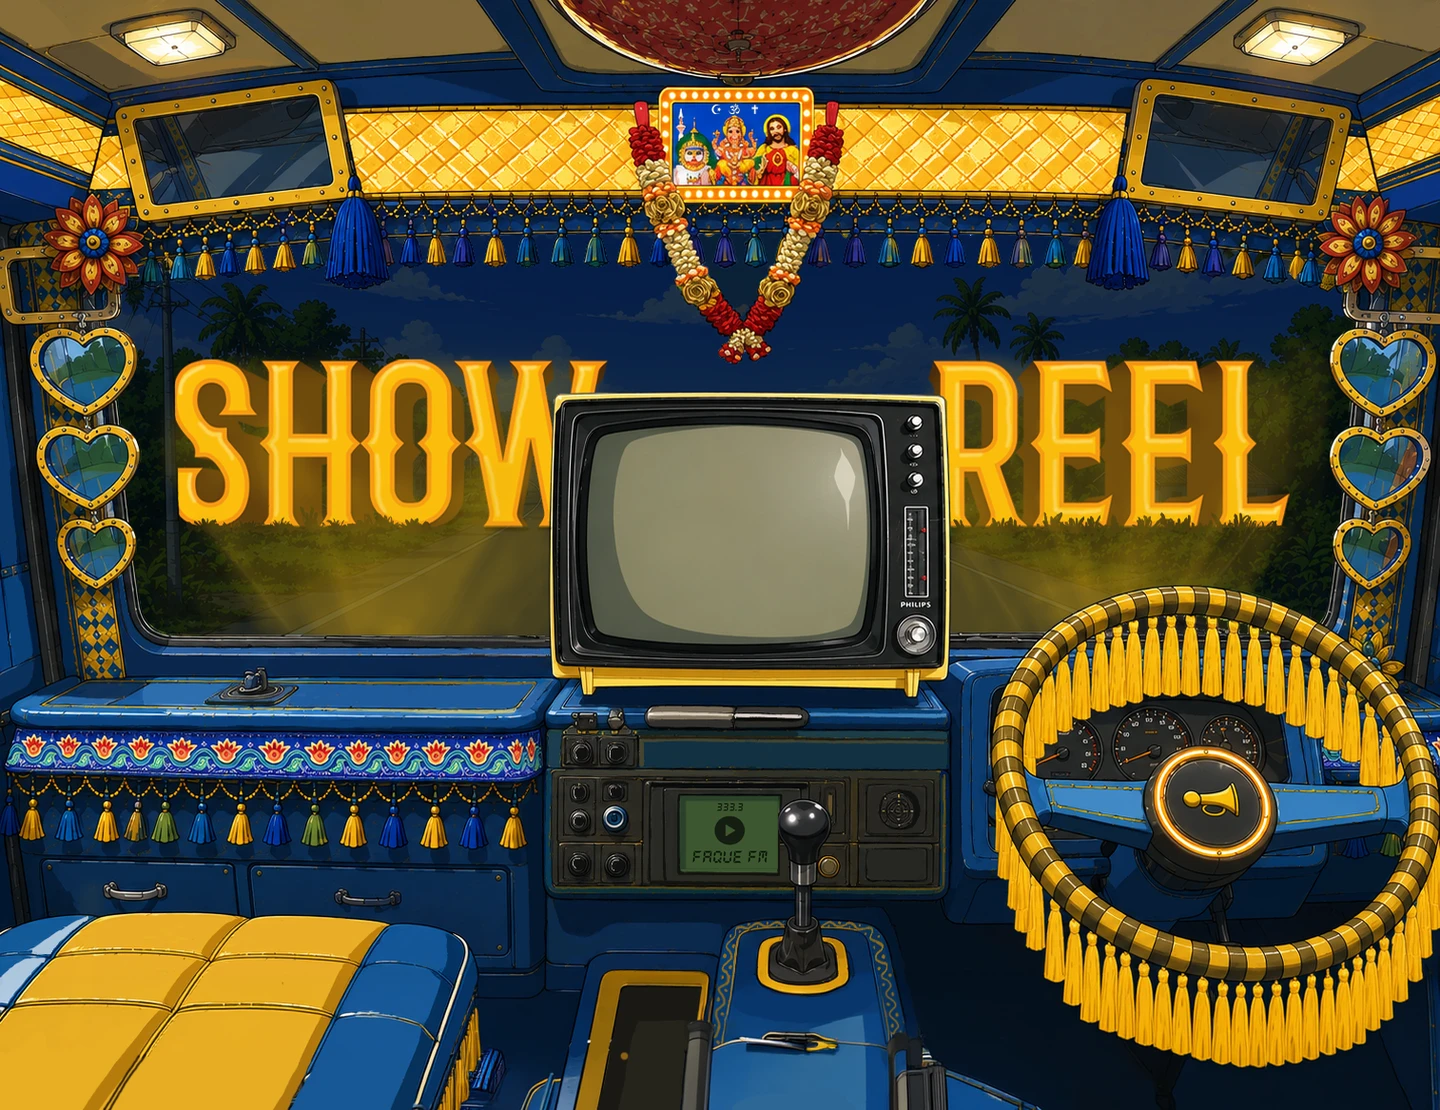
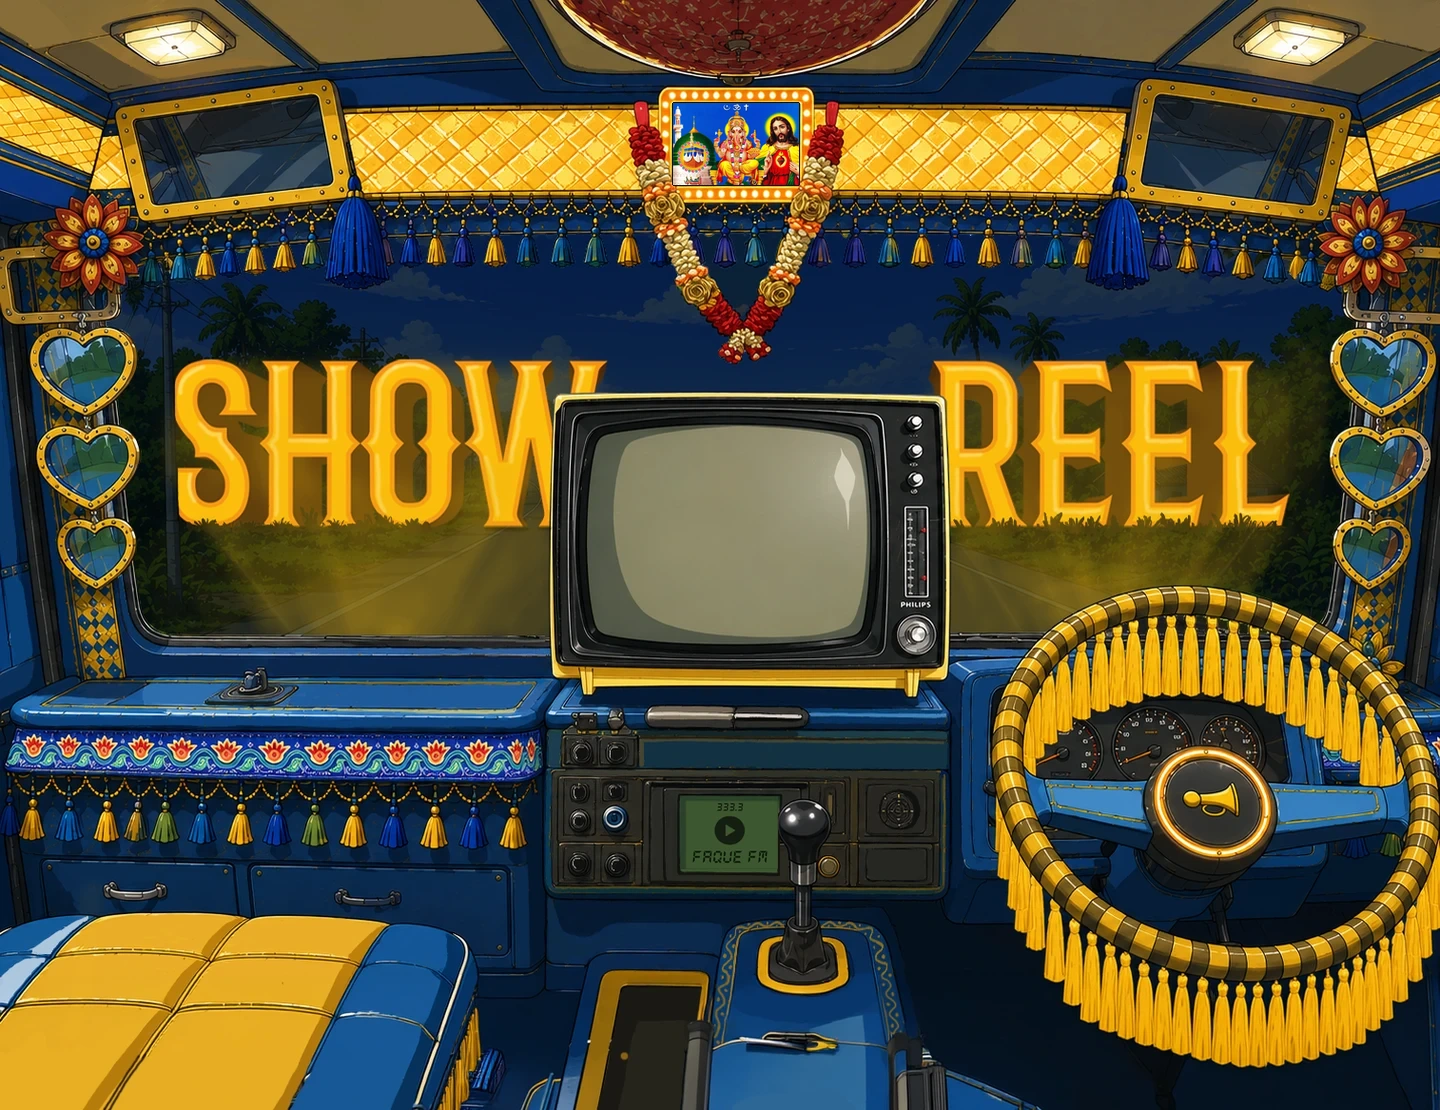
New interfaith artwork in the cab

Changed region(s): [[0.4688, 0.0919, 0.5625, 0.1838]]

diff --git a/css/style.css b/css/style.css
@@ -329,6 +329,8 @@ a { color: inherit; text-decoration: none; -webkit-tap-highlight-color: transpar
 /* showreel */
 .showreel { height: calc(1110 * var(--pu)); }
 .showreel__bg { width: 100%; height: auto; }
+/* the interfaith picture above the dashboard: a sharp copy laid exactly over the one painted into the background */
+.faith { position: absolute; left: calc(672 * var(--pu)); top: calc(102 * var(--pu)); width: calc(128 * var(--pu)); height: calc(84 * var(--pu)); object-fit: cover; border-radius: calc(2.5 * var(--pu)); outline: max(1px, calc(1 * var(--pu))) solid rgba(25,18,0,.85); outline-offset: calc(-1 * var(--pu)); pointer-events: none; }
 /* ---- the TV: one framed box on the glass (screensaver GIF -> reel), 4:3 like the reel ---- */
 .tvbox {
   position: absolute; left: calc(577 * var(--pu)); top: calc(421 * var(--pu)); width: calc(302 * var(--pu)); height: calc(228 * var(--pu));

diff --git a/index.html b/index.html
@@ -154,6 +154,7 @@
     <section class="sec showreel" id="showreel" aria-label="Showreel">
       <div class="stage">
         <img class="showreel__bg" src="assets/showreel/showreel.webp" alt="Inside a hand-painted truck cab with a retro TV and the word SHOWREEL on the windscreen" width="1440" height="1110" loading="lazy" decoding="async">
+        <img class="faith" src="assets/showreel/interfaith.webp" alt="" width="512" height="336" loading="lazy" decoding="async">
         <!-- the reel plays right inside the TV; the file only loads on the first click -->
         <div class="tvbox" id="tvbox">
           <img class="tvbox__idle" src="assets/showreel/tv-screensaver.gif" alt="" loading="lazy" decoding="async">
